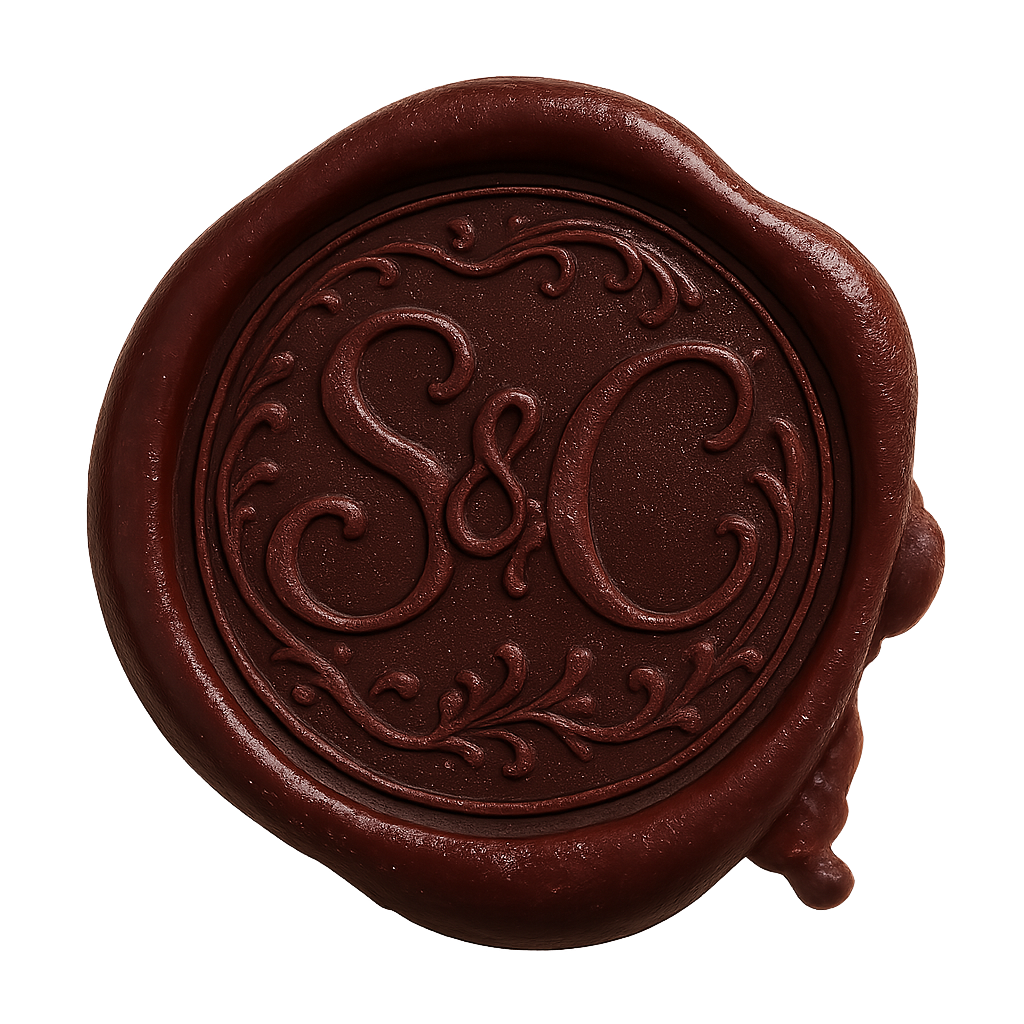
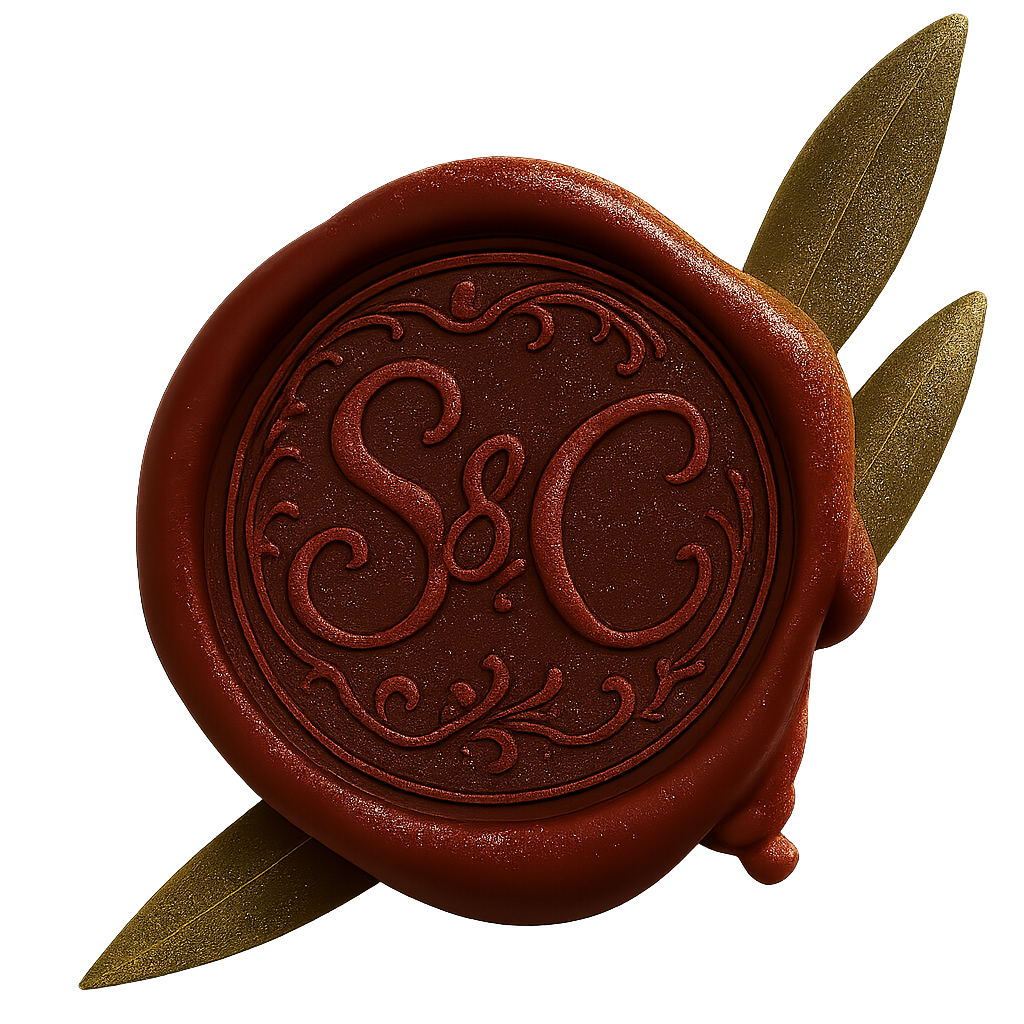
Invite Version #1
Modified-by: Cristian D. Moreno - Kyonax <kyonax25@gmail.com>

diff --git a/src/styles/base/_globals.scss b/src/styles/base/_globals.scss
@@ -92,7 +92,8 @@ body::-webkit-scrollbar {
  * for readability and accessibility.
  */
 body {
-    background-color: var(--clr-cloud-50);
+    // background-color: var(--clr-cloud-50);
+    background-color: var(--clr-cream-brown-50);
     color: var(--clr-secondary-100);
 }
 
@@ -102,11 +103,15 @@ body {
     position: relative;
     height: calc(var(--vh, 1vh) * 96);
     overflow: hidden;
+
+    @include mixins.max-media-query(sm) {
+        height: calc(var(--vh, 1vh) * 91);
+    }
 }
 
 .loader {
     margin-top: 3.5rem;
-    border: 1px solid var(--clr-cloud-100);
+    border: 1px solid var(--clr-cream-brown-100);
     align-items: center;
     display: grid;
     height: calc(var(--vh, 1vh) * 85);
@@ -115,6 +120,11 @@ body {
     position: absolute;
     top: 0rem;
     width: 100%;
+
+    @include mixins.max-media-query(sm) {
+        margin-top: 12rem;
+        height: calc(var(--vh, 1vh) * 45);
+    }
 
     &__container {
         align-items: center;
@@ -134,7 +144,65 @@ body {
             font-size: var(--fs-400);
             color: var(--clr-darker-50);
             animation: reveal 1.6s ease-in 3s forwards;
+
+            @include mixins.max-media-query(sm) {
+                font-size: var(--fs-200);
+            }
         }
+
+        .seal {
+            width: 100%;
+            justify-content: center;
+            display: grid;
+            position: absolute;
+            bottom: -18rem;
+            animation: my-bounce 12s infinite; // Adjust time as needed
+
+            @include mixins.max-media-query(sm) {
+                bottom: -8rem;
+            }
+
+            img {
+                opacity: 0;
+                cursor: pointer;
+                width: 120px;
+                animation: reveal 1.6s ease-in 4s forwards;
+                filter: drop-shadow(-4px 6px 4px rgba(0, 0, 0, 0.2));
+
+                @include mixins.max-media-query(sm) {
+                    width: 60px;
+                }
+            }
+        }
+
+        @keyframes my-bounce {
+            0%,
+            80%,
+            100% {
+                transform: translateY(-1rem);
+                animation-timing-function: ease-in;
+            }
+            84% {
+                transform: translateY(-0.8rem); // Strong downward motion
+                animation-timing-function: ease-in-out;
+            }
+            89% {
+                transform: translateY(-1.2rem); // Strong downward motion
+                animation-timing-function: ease-in-out;
+            }
+            95% {
+                transform: translateY(-0.4rem); // Strong upward rebound
+                animation-timing-function: ease-in;
+            }
+        }
+    }
+
+    .double_border {
+        position: absolute;
+        width: 97.25%;
+        height: 95.75%;
+        border: 0.25px solid var(--clr-cream-brown-100);
+        z-index: -1;
     }
 }
 
@@ -145,42 +213,12 @@ body {
     justify-content: center;
     width: 100%;
     transform: translateY(calc(var(--vh, 1vh) * 95));
-    animation: reveal 1.6s ease-in 3.5s forwards;
+    background-color: var(--clr-cream-brown-100);
+    transition: all 0.5s ease-out;
 
-    &__seal {
-        width: 100%;
-        justify-content: center;
-        display: grid;
-        position: absolute;
-        top: 0rem;
-        transform: translateY(-12rem);
-        animation: my-bounce 12s infinite; // Adjust time as needed
-
-        img {
-            cursor: pointer;
-            width: 100px;
-        }
-    }
-
-    @keyframes my-bounce {
-        0%,
-        80%,
-        100% {
-            transform: translateY(-8rem);
-            animation-timing-function: ease-in;
-        }
-        84% {
-            transform: translateY(-7.6rem); // Strong downward motion
-            animation-timing-function: ease-in-out;
-        }
-        89% {
-            transform: translateY(-10.2rem); // Strong downward motion
-            animation-timing-function: ease-in-out;
-        }
-        95% {
-            transform: translateY(-7.2rem); // Strong upward rebound
-            animation-timing-function: ease-in;
-        }
+    &.top {
+        opacity: 1 !important;
+        transform: translateY(0) !important;
     }
 }
 

diff --git a/src/styles/abstracts/_variables.scss b/src/styles/abstracts/_variables.scss
@@ -50,7 +50,7 @@ $breakpoints: (
     lg: 82.667em,
     // Large Devices (Desktops, 992px and up)
     xl: 100em
-        // Extra Large Devices (Large Desktops, 1200px and up),,,,,,,,,,,,,,,,,,
+        // Extra Large Devices (Large Desktops, 1200px and up),,,,,,,,,,,,,,,,,,,,,,,,,,,,,,
 );
 
 /**
@@ -79,13 +79,21 @@ $colors: (
         500: hsl(27, 30%, 16%),
     ),
     cloud: (
-        50: hsl(225, 13%, 100%),
+        50: hsl(225, 13%, 96%),
         100: hsl(225, 13%, 86%),
         // Original Color rgba(213, 216, 223, 255)
-        200: hsl(225, 13%, 66%),
+        200: hsl(225, 13%, 76%),
         300: hsl(225, 13%, 46%),
         400: hsl(225, 13%, 36%),
         500: hsl(225, 13%, 26%),
+    ),
+    cream-brown: (
+        50: hsl(35, 40%, 95%),
+        100: hsl(35, 40%, 80%),
+        200: hsl(35, 40%, 70%),
+        300: hsl(35, 40%, 50%),
+        400: hsl(35, 40%, 40%),
+        500: hsl(35, 40%, 30%),
     ),
     darker: (
         50: hsl(72, 46%, 16%),
@@ -95,6 +103,19 @@ $colors: (
         300: hsl(72, 46%, 4%),
         400: hsl(72, 46%, 3%),
         500: hsl(72, 46%, 0%),
+    ),
+    gold: (
+        50: hsl(51, 100%, 95%),
+        100: hsl(51, 100%, 85%),
+        200: hsl(51, 100%, 75%),
+        300: hsl(51, 100%, 65%),
+        400: hsl(51, 100%, 55%),
+        500: hsl(51, 100%, 45%),
+        // Original Color rgba(255, 215, 0, 255)
+        600: hsl(51, 100%, 35%),
+        700: hsl(51, 100%, 25%),
+        800: hsl(51, 100%, 15%),
+        900: hsl(51, 100%, 5%),
     ),
 );
 

diff --git a/src/index.tsx b/src/index.tsx
@@ -23,15 +23,15 @@ export function App({ data }) {
 						Hemos reservado {data?.reserved || FALLBACK_RESERVED} lugar(es) en
 						su honor
 					</p>
-				</div>
-			</section>
-			<section class="main">
-				<div class="main__seal">
-					<span>Click Aqui!</span>
-					<img src={seal_sc} alt="The Invite Seal - S&C" />
+					<div class="seal">
+						<img src={seal_sc} alt="The Invite Seal - S&C" />
+					</div>
 				</div>
 
-				<h1>This is the first section,</h1>
+				<div class="double_border"></div>
+			</section>
+			<section class="main">
+				<span>Section #1</span>
 			</section>
 		</div>
 	);

diff --git a/index.html b/index.html
@@ -45,5 +45,17 @@
 	<body>
 		<div id="app"></div>
 		<script prerender type="module" src="/src/index.tsx"></script>
+		<script>
+			document.addEventListener("DOMContentLoaded", function () {
+				const button = document.querySelector("img"); // Assuming you have a button element
+				const seal = document.querySelector(".main");
+
+				if (button && seal) {
+					button.addEventListener("click", function () {
+						seal.classList.toggle("top");
+					});
+				}
+			});
+		</script>
 	</body>
 </html>

diff --git a/src/component/handwrite.scss b/src/component/handwrite.scss
@@ -3,7 +3,7 @@
 
     .handwrite-letter {
         fill: none;
-        stroke: var(--clr-secondary-100);
+        stroke: var(--clr-secondary-200);
         stroke-width: 2px;
         stroke-linecap: round;
         stroke-linejoin: round;
